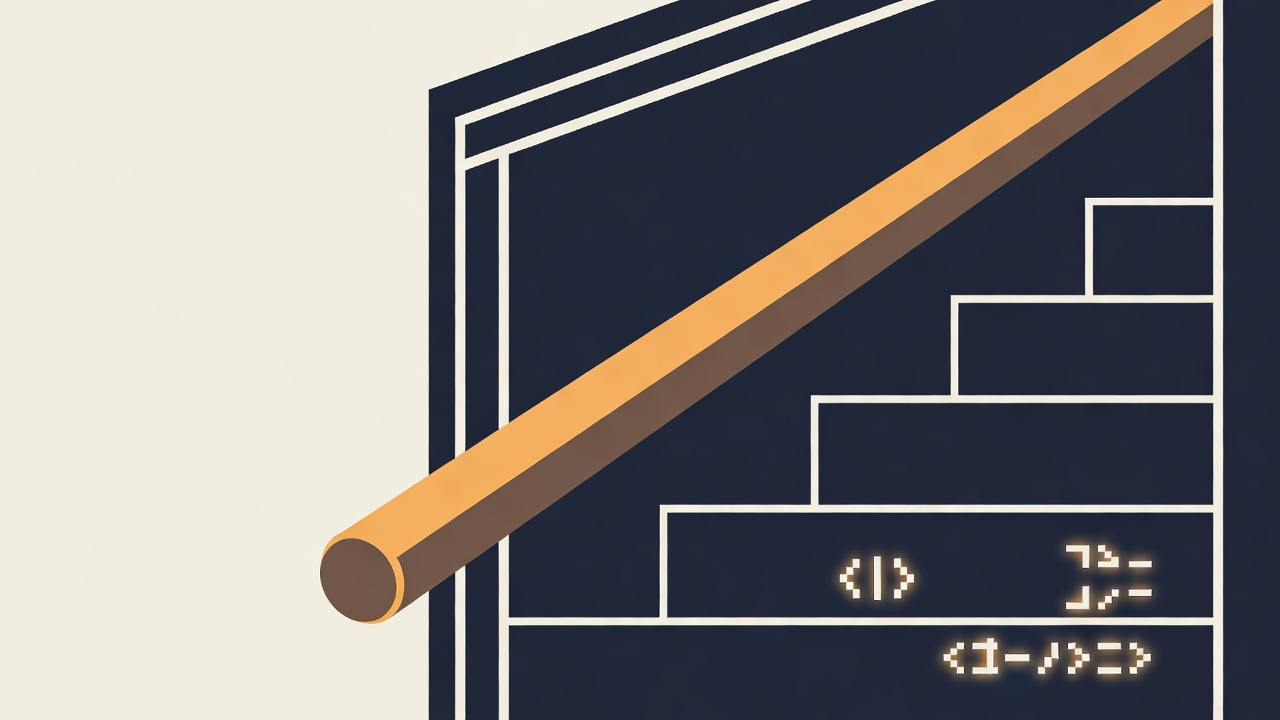
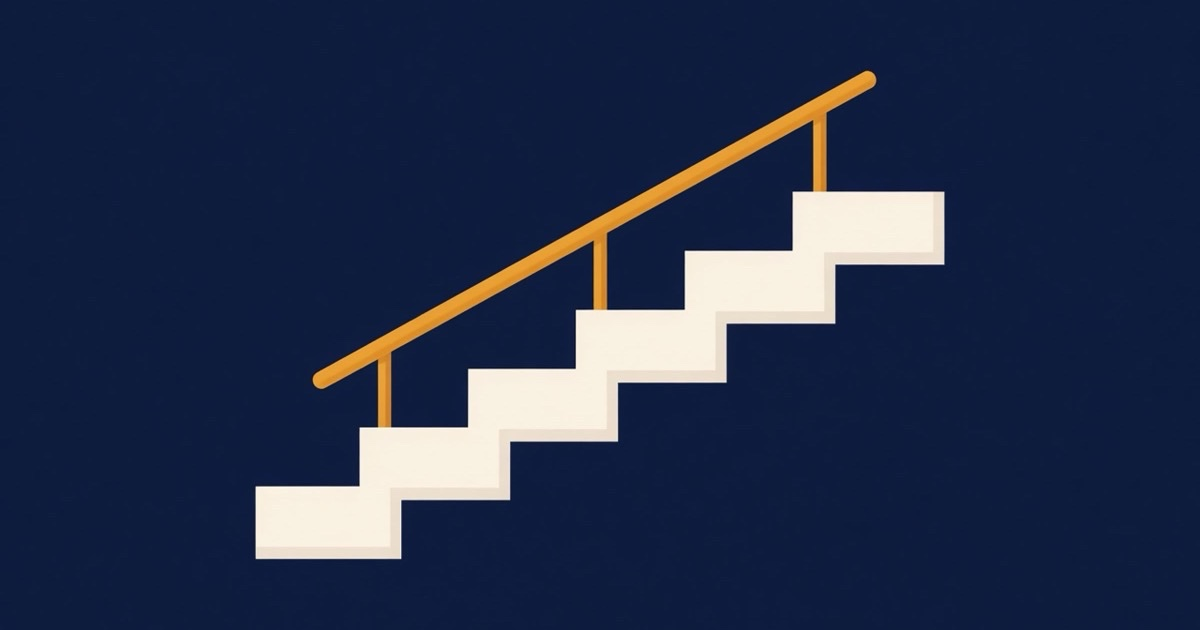
Checkout links moved to the new Polar organization; OG image is the accepted master crop (1200x630) (#1)

diff --git a/docs/index.html b/docs/index.html
@@ -13,8 +13,8 @@
 <meta property="og:description" content="Fail-closed deny/ask hooks for Claude Code and other agent CLIs. MIT. Only tightens, never grants.">
 <meta property="og:url" content="https://trimkeep.com/handrail-kit/">
 <meta property="og:image" content="https://trimkeep.com/handrail-kit/og-handrail.jpg">
-<meta property="og:image:width" content="1280">
-<meta property="og:image:height" content="720">
+<meta property="og:image:width" content="1200">
+<meta property="og:image:height" content="630">
 <meta name="twitter:card" content="summary_large_image">
 <meta name="twitter:image" content="https://trimkeep.com/handrail-kit/og-handrail.jpg">
 <meta name="twitter:site" content="@trimkeep">
@@ -405,7 +405,7 @@ cd handrail-kit
 
     <div class="buy-row">
       <div class="buy-cta">
-        <a class="buy-button" href="https://buy.polar.sh/polar_cl_rChbtke0OuQbZOsGIyll1m7SzcfDYYrLJW81T3e6jRi">Buy Handrail v0.9 — <span class="price">$19</span></a>
+        <a class="buy-button" href="https://buy.polar.sh/polar_cl_g0ed876Jghhw3o2tMYtvUeuwHFHmrx34XEPj01CTjV4">Buy Handrail v0.9 — <span class="price">$19</span></a>
       </div>
       <p class="opens-note">Early access is open — first 20 buyers.</p>
       <p class="polar-note">Checkout runs on Polar, the merchant of record; see Polar's <a href="https://polar.sh/legal/terms">terms</a> and <a href="https://polar.sh/legal/privacy">privacy policy</a>.</p>

diff --git a/README.md b/README.md
@@ -110,7 +110,7 @@ The pack in this repo is free and always will be. A paid early-access pack (v0.9
 
 Handrail v0.9 — early-access price: $19 one-time. Early access is limited to the first 20 buyers; when it closes, this page will say so — no live counter, no countdown. Handrail v0.9 comes with a voluntary 14-day, no-questions refund, processed through Polar in addition to — not in place of — any statutory withdrawal right shown at checkout; refunds deactivate your licence key.
 
-Buy early access ($19): https://buy.polar.sh/polar_cl_TJBCNRY6iAyhKnQTzuDs1ZUV8rY9UvmMczDVx2JfNxh — checkout runs on Polar, the merchant of record. Docs: https://trimkeep.com/handrail-kit/
+Buy early access ($19): https://buy.polar.sh/polar_cl_FVHg2M2c1DNYFiXqJN3IBELAHNwQ4XQDkkDwg25nonO — checkout runs on Polar, the merchant of record. Docs: https://trimkeep.com/handrail-kit/
 
 Handrail is a defence-in-depth layer — it reduces risk but does not eliminate it, is not a security audit or certification, and does not replace backups, code review, or your own judgment.
 
